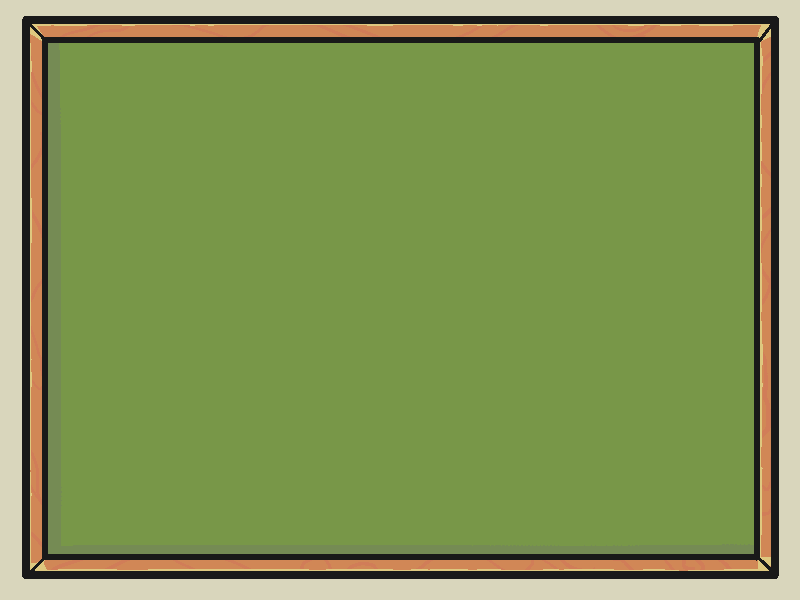
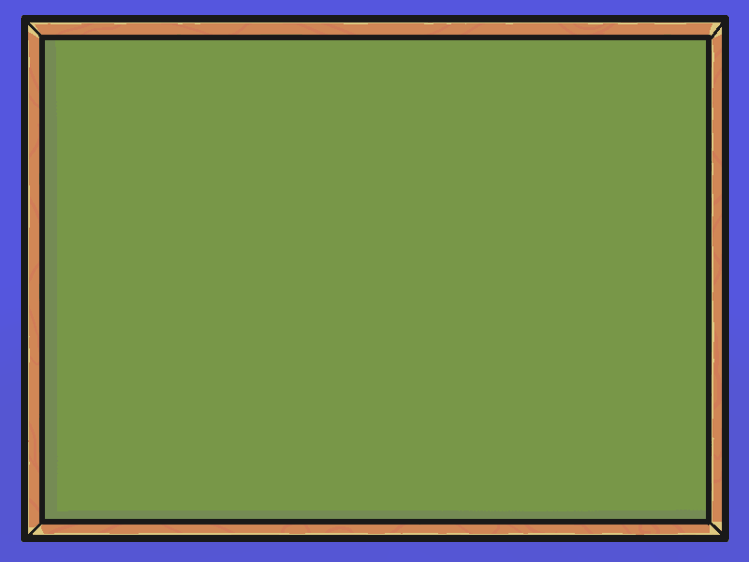
003

Changed region(s): [[0.0, 0.0, 1.0, 1.0]]

diff --git a/src/TelaInicial.java b/src/TelaInicial.java
@@ -1,30 +1,30 @@
-
 import javax.swing.*;
 import java.awt.*;
 
 public class TelaInicial extends JFrame {
 
     public TelaInicial() {
+        // Carrega a imagem de fundo
+        ImageIcon fundoIcon = new ImageIcon(getClass().getResource("/tela_fundo.png"));
+
         // Configurações da janela
         setTitle("MathQuest");
-        setSize(800, 600);
+        setSize(fundoIcon.getIconWidth(), fundoIcon.getIconHeight()); // Ajusta o tamanho da janela para o tamanho da imagem
+        setResizable(false);
         setDefaultCloseOperation(JFrame.EXIT_ON_CLOSE);
-        setLayout(null); // Layout manual
         setLocationRelativeTo(null); // Centraliza a janela
-
-        // Carrega as imagens
-        ImageIcon fundoIcon = new ImageIcon(getClass().getResource("/tela_fundo.png"));
-        ImageIcon logoIcon = new ImageIcon(getClass().getResource("/logo_tela_.png"));
 
         // Adiciona o fundo
         JLabel fundo = new JLabel(fundoIcon);
-        fundo.setBounds(0, 0, 800, 600);
         add(fundo);
+
+        // Carrega o logo
+        ImageIcon logoIcon = new ImageIcon(getClass().getResource("/logo_tela_.png"));
 
         // Adiciona o logo
         JLabel logo = new JLabel(logoIcon);
         logo.setBounds(200, 50, 400, 200); // Posiciona o logo
-        fundo.add(logo); // Adiciona o logo sobre o fundo
+        fundo.add(logo);
 
         // Botão "Iniciar Jogo"
         JButton botaoIniciar = new JButton("Iniciar Jogo");
